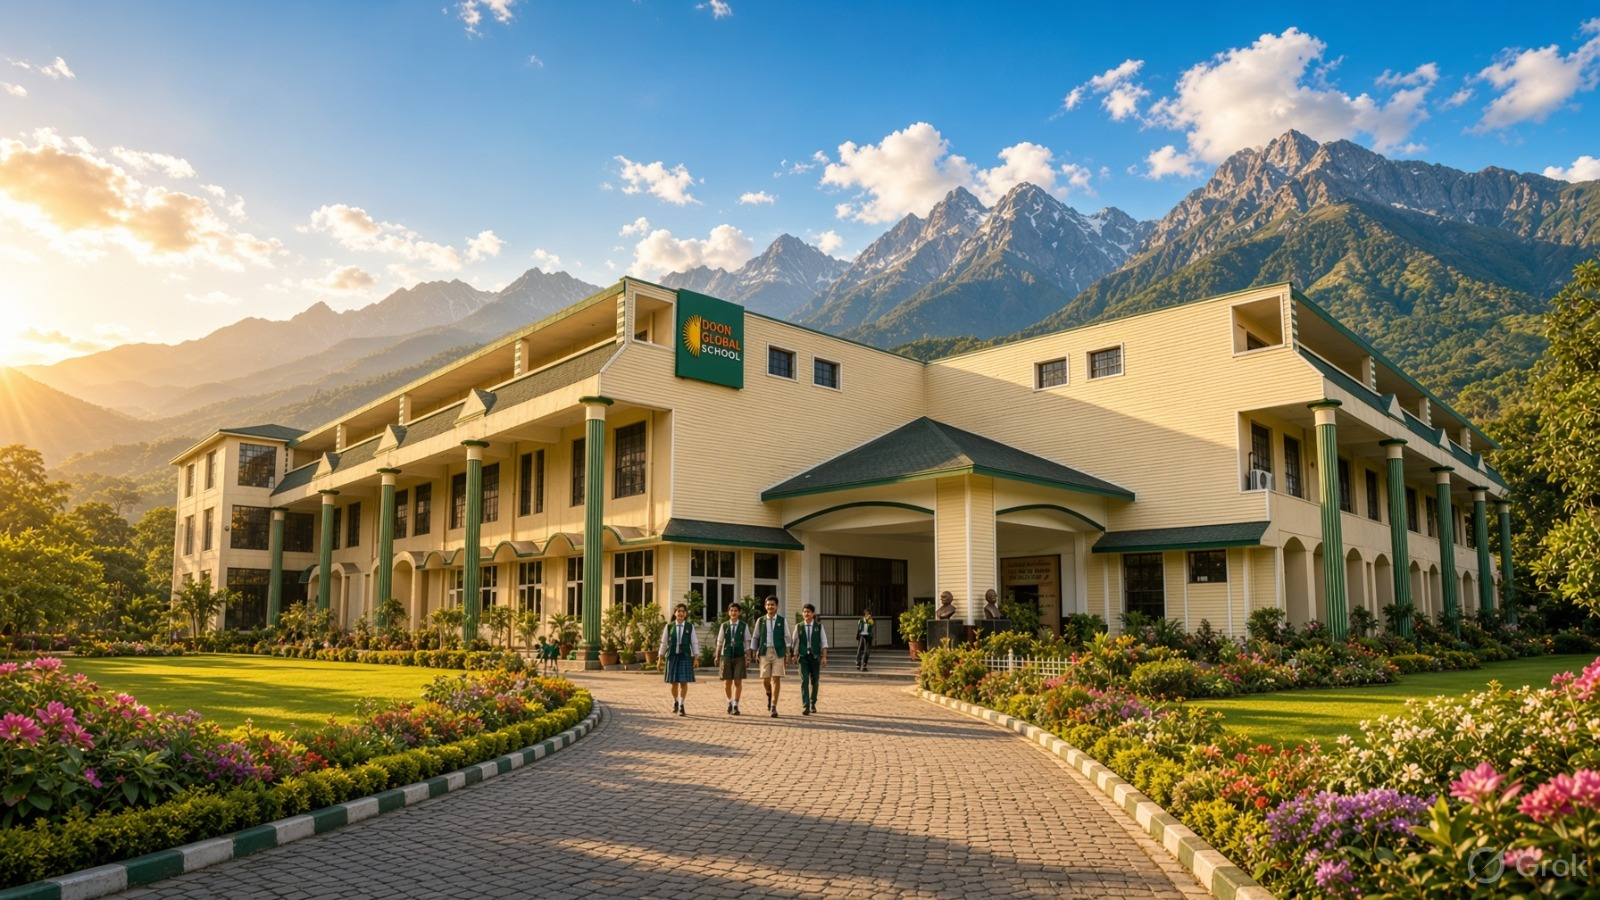
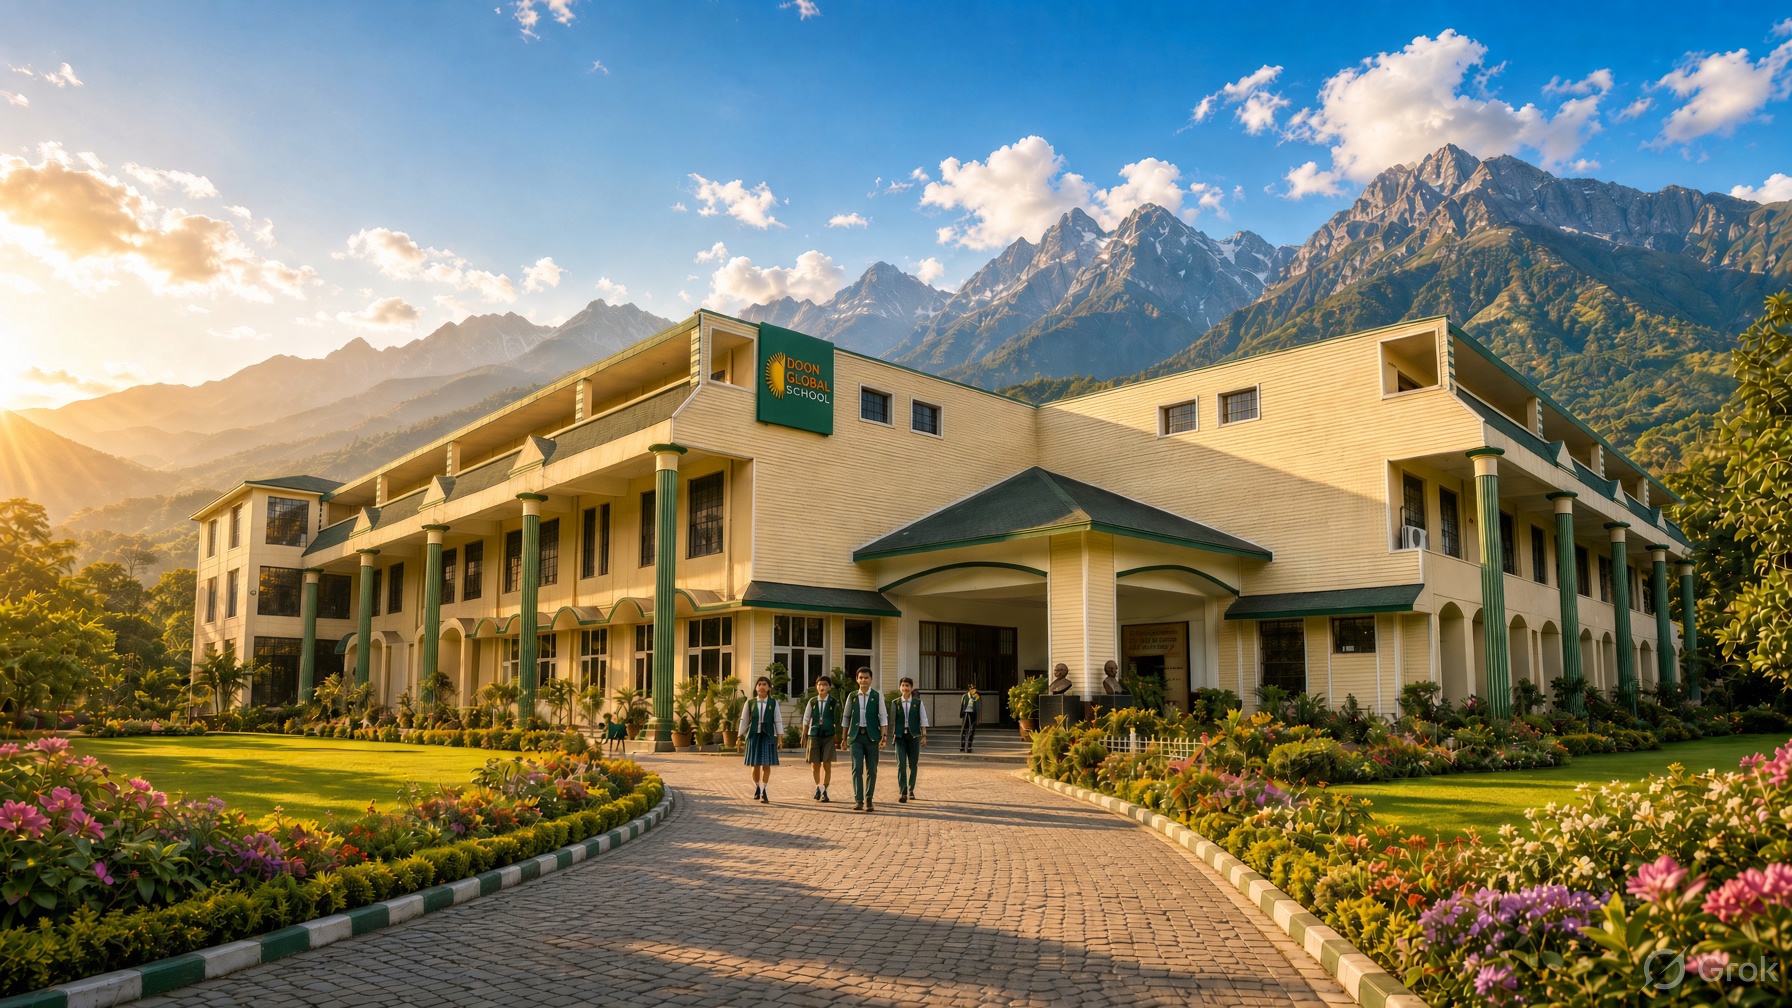
update school image

diff --git a/src/components/school-life-section.tsx b/src/components/school-life-section.tsx
@@ -25,42 +25,54 @@ const activities = [
   {
     id: "academics",
     title: "Academics",
-    alt: "Illustrative North East Indian student studying in a sunlit school library",
+    src: "/images/life-at-dgs/campus-academics.webp",
+    position: "55% center",
+    alt: "Doon Global School students examining specimens together in the science lab",
     heading: "Curiosity today. Confidence tomorrow.",
     description: "A strong CBSE foundation, with space to ask questions, discover new ideas and develop independent study habits.",
   },
   {
     id: "sports",
     title: "Sports",
-    alt: "Illustrative North East Indian student practising football on a school field",
+    src: "/images/life-at-dgs/campus-sports.webp",
+    position: "center",
+    alt: "Doon Global School football team standing together on the playing field",
     heading: "Find your game. Find your team.",
     description: "From football and cricket to basketball and athletics, sport brings opportunities to practise, work together and keep growing.",
   },
   {
     id: "creativity",
     title: "Creativity",
-    alt: "Illustrative North East Indian student building an educational robot",
+    src: "/images/life-at-dgs/campus-creativity.webp",
+    position: "60% center",
+    alt: "Doon Global School students building a wheeled model in a robotics activity",
     heading: "Big ideas begin with a little curiosity.",
     description: "Robotics, hands-on exploration and creative expression give young minds room to experiment, make and discover.",
   },
   {
     id: "leadership",
     title: "Leadership",
-    alt: "Illustrative North East Indian student in a school cadet uniform",
+    src: "/images/life-at-dgs/campus-leadership.webp",
+    position: "center",
+    alt: "Doon Global School students marching together behind their house flag",
     heading: "Small steps towards stronger selves.",
     description: "House activities, teamwork, service and opportunities including NCC and NSS help students practise responsibility and leadership.",
   },
   {
     id: "life-skills",
     title: "Life Skills",
-    alt: "Illustrative North East Indian student playing an acoustic guitar at school",
+    src: "/images/life-at-dgs/campus-life-skills.webp",
+    position: "center",
+    alt: "Doon Global School students singing and playing guitars, keyboard and drums",
     heading: "Confidence beyond the classroom.",
     description: "Music, shared activities and everyday school routines encourage self-expression, patience, collaboration and growing independence.",
   },
   {
     id: "boarding",
     title: "Boarding Life",
-    alt: "Illustrative North East Indian students sharing a friendly moment in a boarding common room",
+    src: "/images/life-at-dgs/campus-boarding.webp",
+    position: "65% center",
+    alt: "Doon Global School student working in a notebook during study time",
     heading: "New friendships. A sense of belonging.",
     description: "A residential experience for boys in Classes 3–12, with time for study, shared routines, friendship and the everyday discoveries of growing up.",
   },
@@ -68,12 +80,12 @@ const activities = [
 
 // Resting tilt, photo shape and the scattered point each card flies in from (x and y as fractions of the viewport).
 const layout = [
-  { rest: -2.4, aspect: "4 / 5", from: { x: -.46, y: .16, r: -18 } },
-  { rest: 1.8, aspect: "1 / 1", from: { x: .1, y: .3, r: 14 } },
-  { rest: -1.2, aspect: "4 / 5", from: { x: .5, y: .14, r: 17 } },
-  { rest: 2.1, aspect: "1 / 1", from: { x: -.5, y: .12, r: 15 } },
-  { rest: -1.9, aspect: "4 / 5", from: { x: -.12, y: .26, r: -13 } },
-  { rest: 1.4, aspect: "1 / 1", from: { x: .52, y: .14, r: -16 } },
+  { rest: -2.4, aspect: "4 / 3", from: { x: -.46, y: .16, r: -18 } },
+  { rest: 1.8, aspect: "3 / 2", from: { x: .1, y: .3, r: 14 } },
+  { rest: -1.2, aspect: "4 / 3", from: { x: .5, y: .14, r: 17 } },
+  { rest: 2.1, aspect: "3 / 2", from: { x: -.5, y: .12, r: 15 } },
+  { rest: -1.9, aspect: "3 / 2", from: { x: -.12, y: .26, r: -13 } },
+  { rest: 1.4, aspect: "4 / 3", from: { x: .52, y: .14, r: -16 } },
 ];
 
 const clamp = (value: number) => Math.min(1, Math.max(0, value));
@@ -142,7 +154,7 @@ export default function SchoolLifeSection() {
           {activities.map((activity, index) => (
             <article className={ui.card} key={activity.id} style={{ "--rest-r": `${layout[index].rest}deg` } as React.CSSProperties}>
               <span className={ui.photo} style={{ aspectRatio: layout[index].aspect }}>
-                <Image src={`/images/life-at-dgs/${activity.id}.webp`} alt={activity.alt} fill sizes="(max-width: 600px) 82vw, (max-width: 900px) 44vw, 400px" />
+                <Image src={activity.src} alt={activity.alt} fill sizes="(max-width: 600px) 82vw, (max-width: 900px) 44vw, 400px" style={{ objectPosition: activity.position }} />
               </span>
               <div className={ui.text}>
                 <p className={ui.label}>{String(index + 1).padStart(2, "0")} — {activity.title}</p>

diff --git a/src/components/site-footer.tsx b/src/components/site-footer.tsx
@@ -82,7 +82,7 @@ export default function SiteFooter({ onEnquire, onPrivacy }: { onEnquire: () => 
           <p>© {new Date().getFullYear()} Doon Global School. All rights reserved.</p>
           <div><button onClick={onPrivacy}>Privacy details</button><a className={ui.backToTop} href="#home">Back to top <span><ArrowUp size={15} aria-hidden="true" /></span></a></div>
         </div>
-        <p className={ui.credit}>Hero, student-life and partner visuals are illustrative. Campus photographs are from the school’s official website. Confirm current facilities, programme access and fees with admissions.</p>
+        <p className={ui.credit}>School-life cards feature DGS student photographs. Selected campaign visuals are illustrative. Campus photographs are from the school’s official website. Confirm current facilities, programme access and fees with admissions.</p>
       </div>
     </footer>
   );

diff --git a/README.md b/README.md
@@ -60,7 +60,7 @@ Before connecting a public campaign, use the receiving CRM’s deduplication, sp
 - `src/lib/enquiry.ts`: shared validation and email preparation.
 - `src/app/api/enquiry/route.ts`: server validation and optional webhook delivery.
 - `public/images`: supplied-school imagery, partner logos and generated campaign visuals.
-- `public/images/life-at-dgs`: six optimized WebP school-life images featuring fictional North East Indian students.
+- `public/images/life-at-dgs`: DGS student photographs (`campus-*.webp`) used in the school-life cards, alongside the earlier illustrative assets retained for other sections.
 - `docs/life-at-dgs-images.md`: full generation prompts and asset provenance for the school-life section.
 - `artifacts`: desktop and mobile preview screenshots.
 
@@ -153,7 +153,7 @@ The current illustrative background was created with the **built-in image genera
 
 “A School Day with Room for More” is a loose collage of six photo cards (Academics, Sports, Creativity, Leadership, Life Skills and Boarding Life). Each card holds its photo, heading and description, and the cards rest slightly tilted with staggered columns. As the page scrolls, each card flies in from a scattered position off to the side, rotating and scaling into place. The columns then drift at slightly different speeds. The page keeps scrolling normally throughout; nothing is pinned. Phones show one column of alternating cards, and tablets show two. With reduced motion, or without scripting, the cards simply rest in the collage. “Explore Life at DGS” moves to the programmes section.
 
-All six images were created with the **built-in image generation tool** to represent fictional North East Indian students. The optimized assets are saved in `public/images/life-at-dgs/`, with complete final prompts in [the image generation record](docs/life-at-dgs-images.md). They are identified as illustrative in alt text and the footer. Preview screenshots: `artifacts/school-life-desktop.png` and `artifacts/school-life-mobile.png`.
+The six cards use the existing DGS student photographs in `public/images/life-at-dgs/campus-*.webp`: science lab, football team, robotics, house parade, music and study time. Landscape frames keep the group activities visible, with descriptive alt text for each photo. The earlier generated assets remain available for other sections; their prompts are preserved in [the image generation record](docs/life-at-dgs-images.md). Preview screenshots: `artifacts/school-life-desktop.png` and `artifacts/school-life-mobile.png`.
 
 ## Football shot (admission drive background)
 

diff --git a/docs/life-at-dgs-images.md b/docs/life-at-dgs-images.md
@@ -1,5 +1,7 @@
 # School-life campaign images
 
+The school-life cards now use the existing DGS student photographs named `campus-academics.webp`, `campus-sports.webp`, `campus-creativity.webp`, `campus-leadership.webp`, `campus-life-skills.webp` and `campus-boarding.webp` in `public/images/life-at-dgs/`. They show science lab work, the football team, robotics, a house parade, music and study time respectively. The generation record below describes the earlier illustrative assets, which are retained for other sections.
+
 Generated using the built-in image generation tool on 28 October 2026. These are fictional, illustrative campaign scenes representing students from North East India, not documentary photographs of DGS students or facilities. Images were converted to 1200px WebP for the website; the original generated files remain untouched.
 
 ## academics
